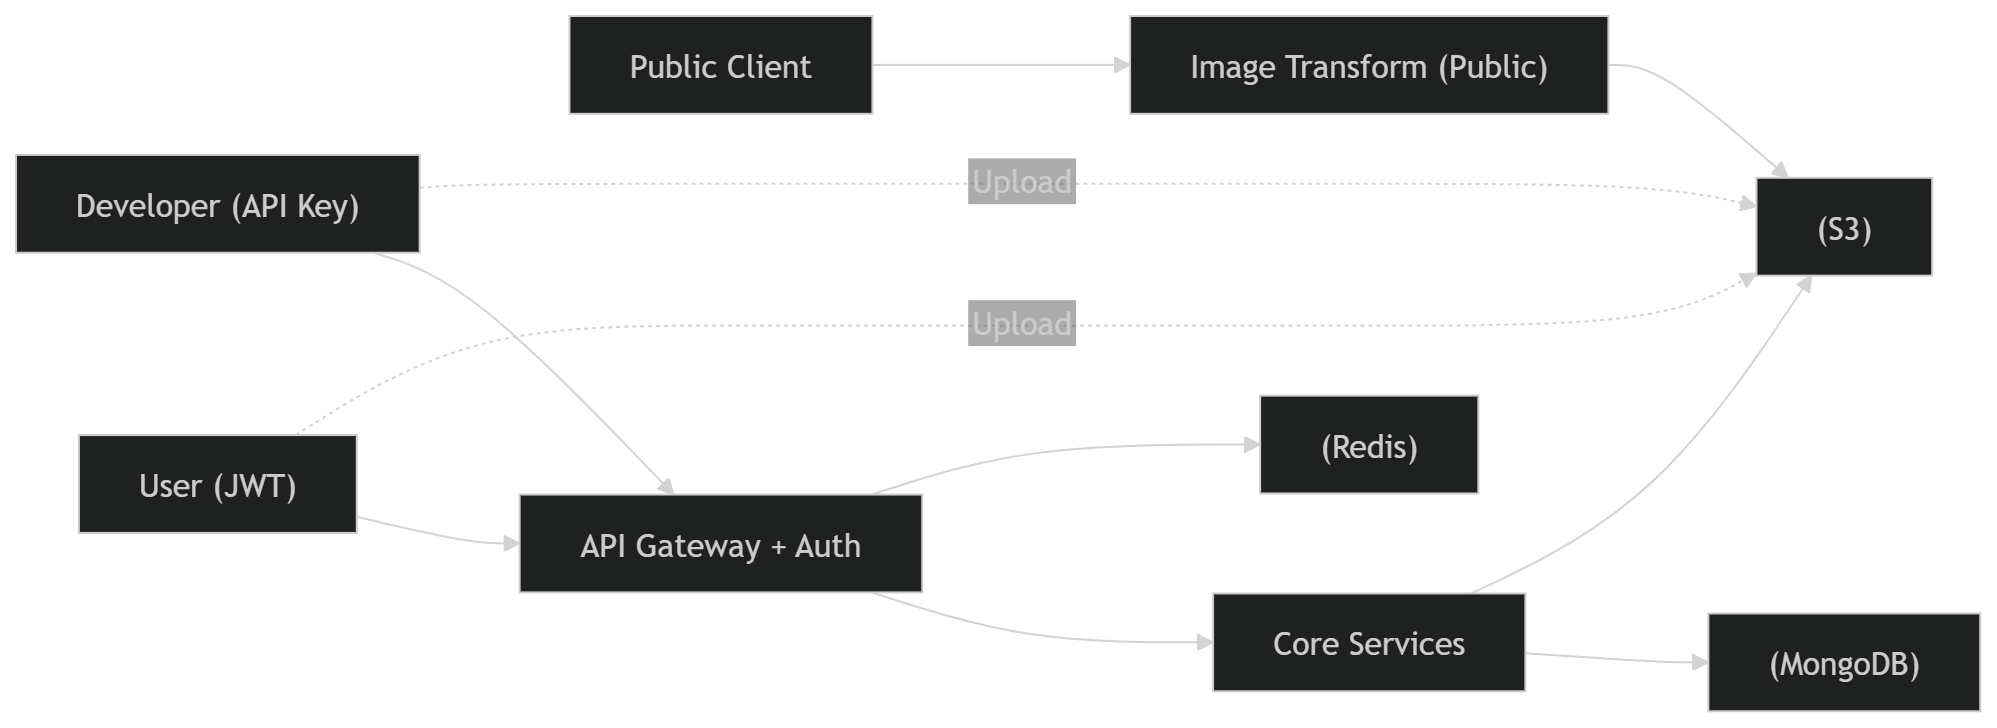
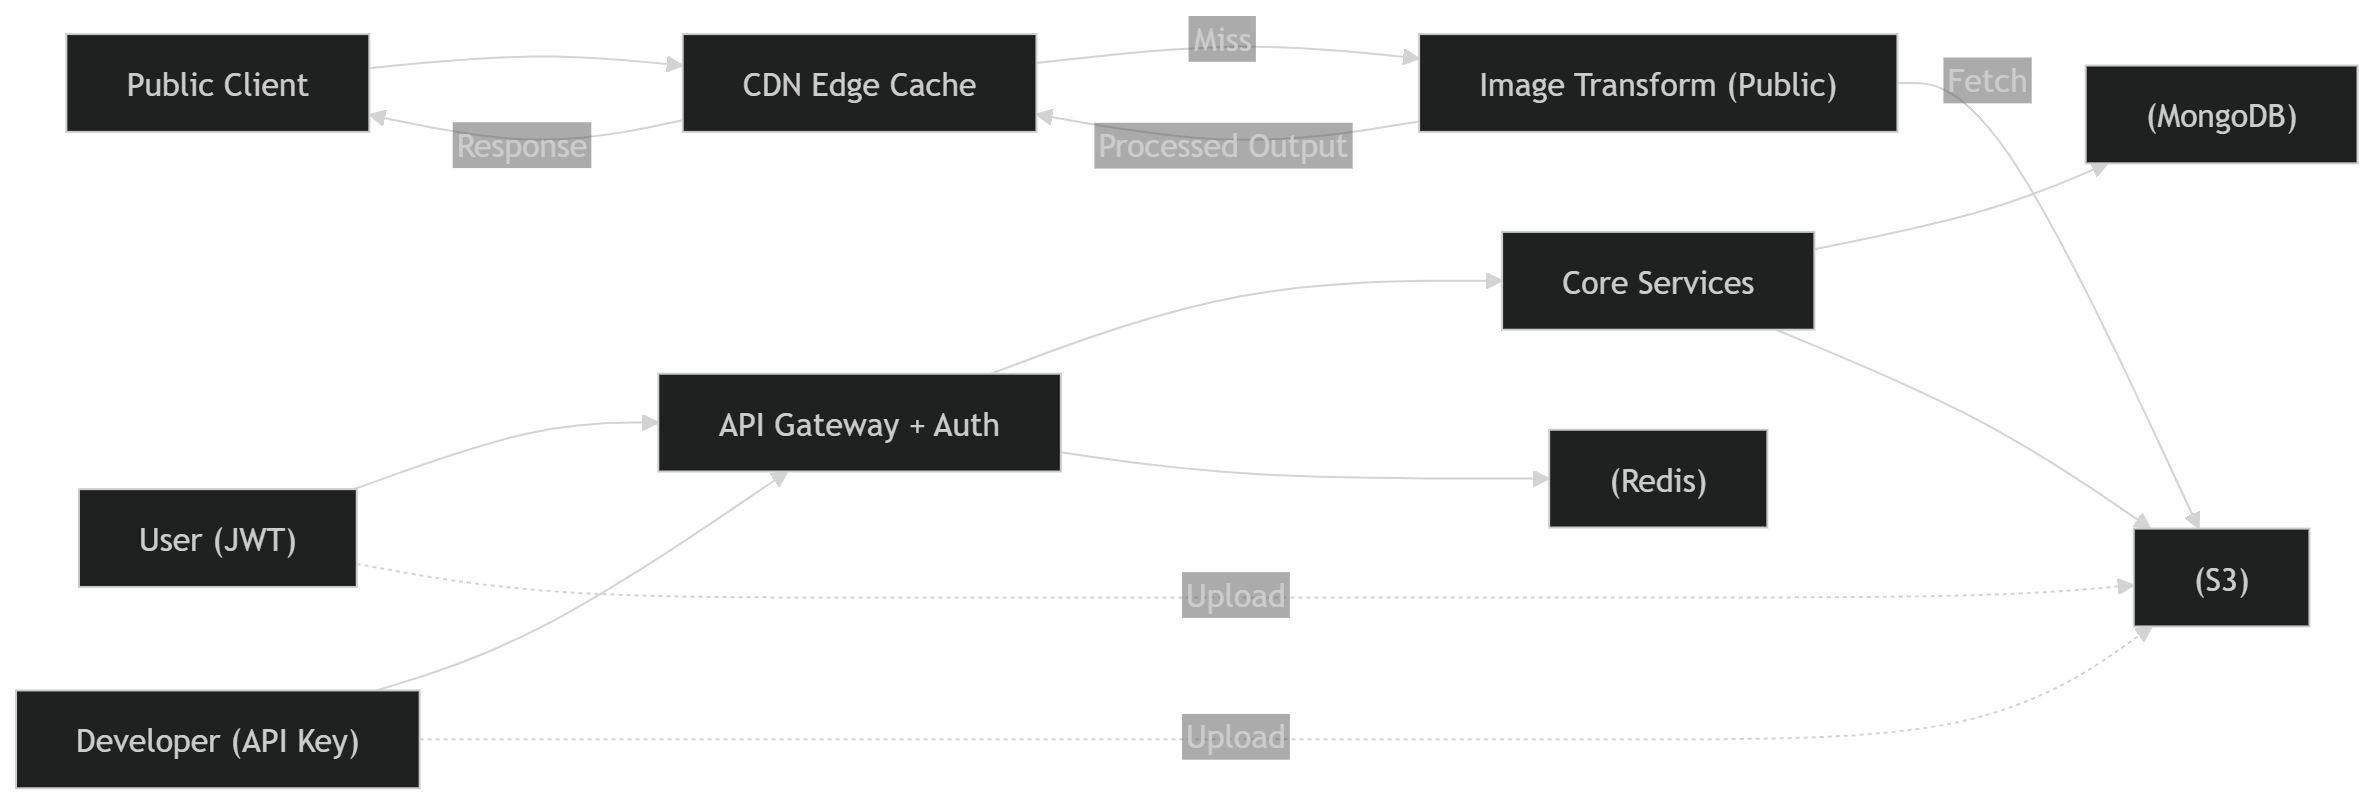
doc and ui

diff --git a/README.md b/README.md
@@ -146,13 +146,21 @@ This route is also stored in the database as the user file link, so clients can 
 
 Transform query parameter reference:
 
+- `removebg`: Set to `true` to remove image background before other transforms.
+- `gray`: Set to `true` to convert output to grayscale.
 - `width`: Target width in pixels (number).
 - `height`: Target height in pixels (number).
+- `fit`: Resize behavior when both width and height are provided. Supported values:
+  - `cover` (default): Crop to fill dimensions
+  - `contain`: Fit inside without cropping (may add padding)
+  - `fill`: Stretch to exact size (may distort image)
+  - `inside`: Fit within box without upscaling
+  - `outside`: Cover box without cropping
 - `rotate`: Rotation in degrees (number).
 - `blur`: Blur intensity value for Sharp (number).
-- `gray`: Set to `true` to convert output to grayscale.
 - `format`: Output format. Supported values: `jpeg`, `png`, `webp`, `tiff`, `avif`.
 - `removebg`: Set to `true` to remove image background before other transforms.
+
 
 Parameter behavior notes:
 
